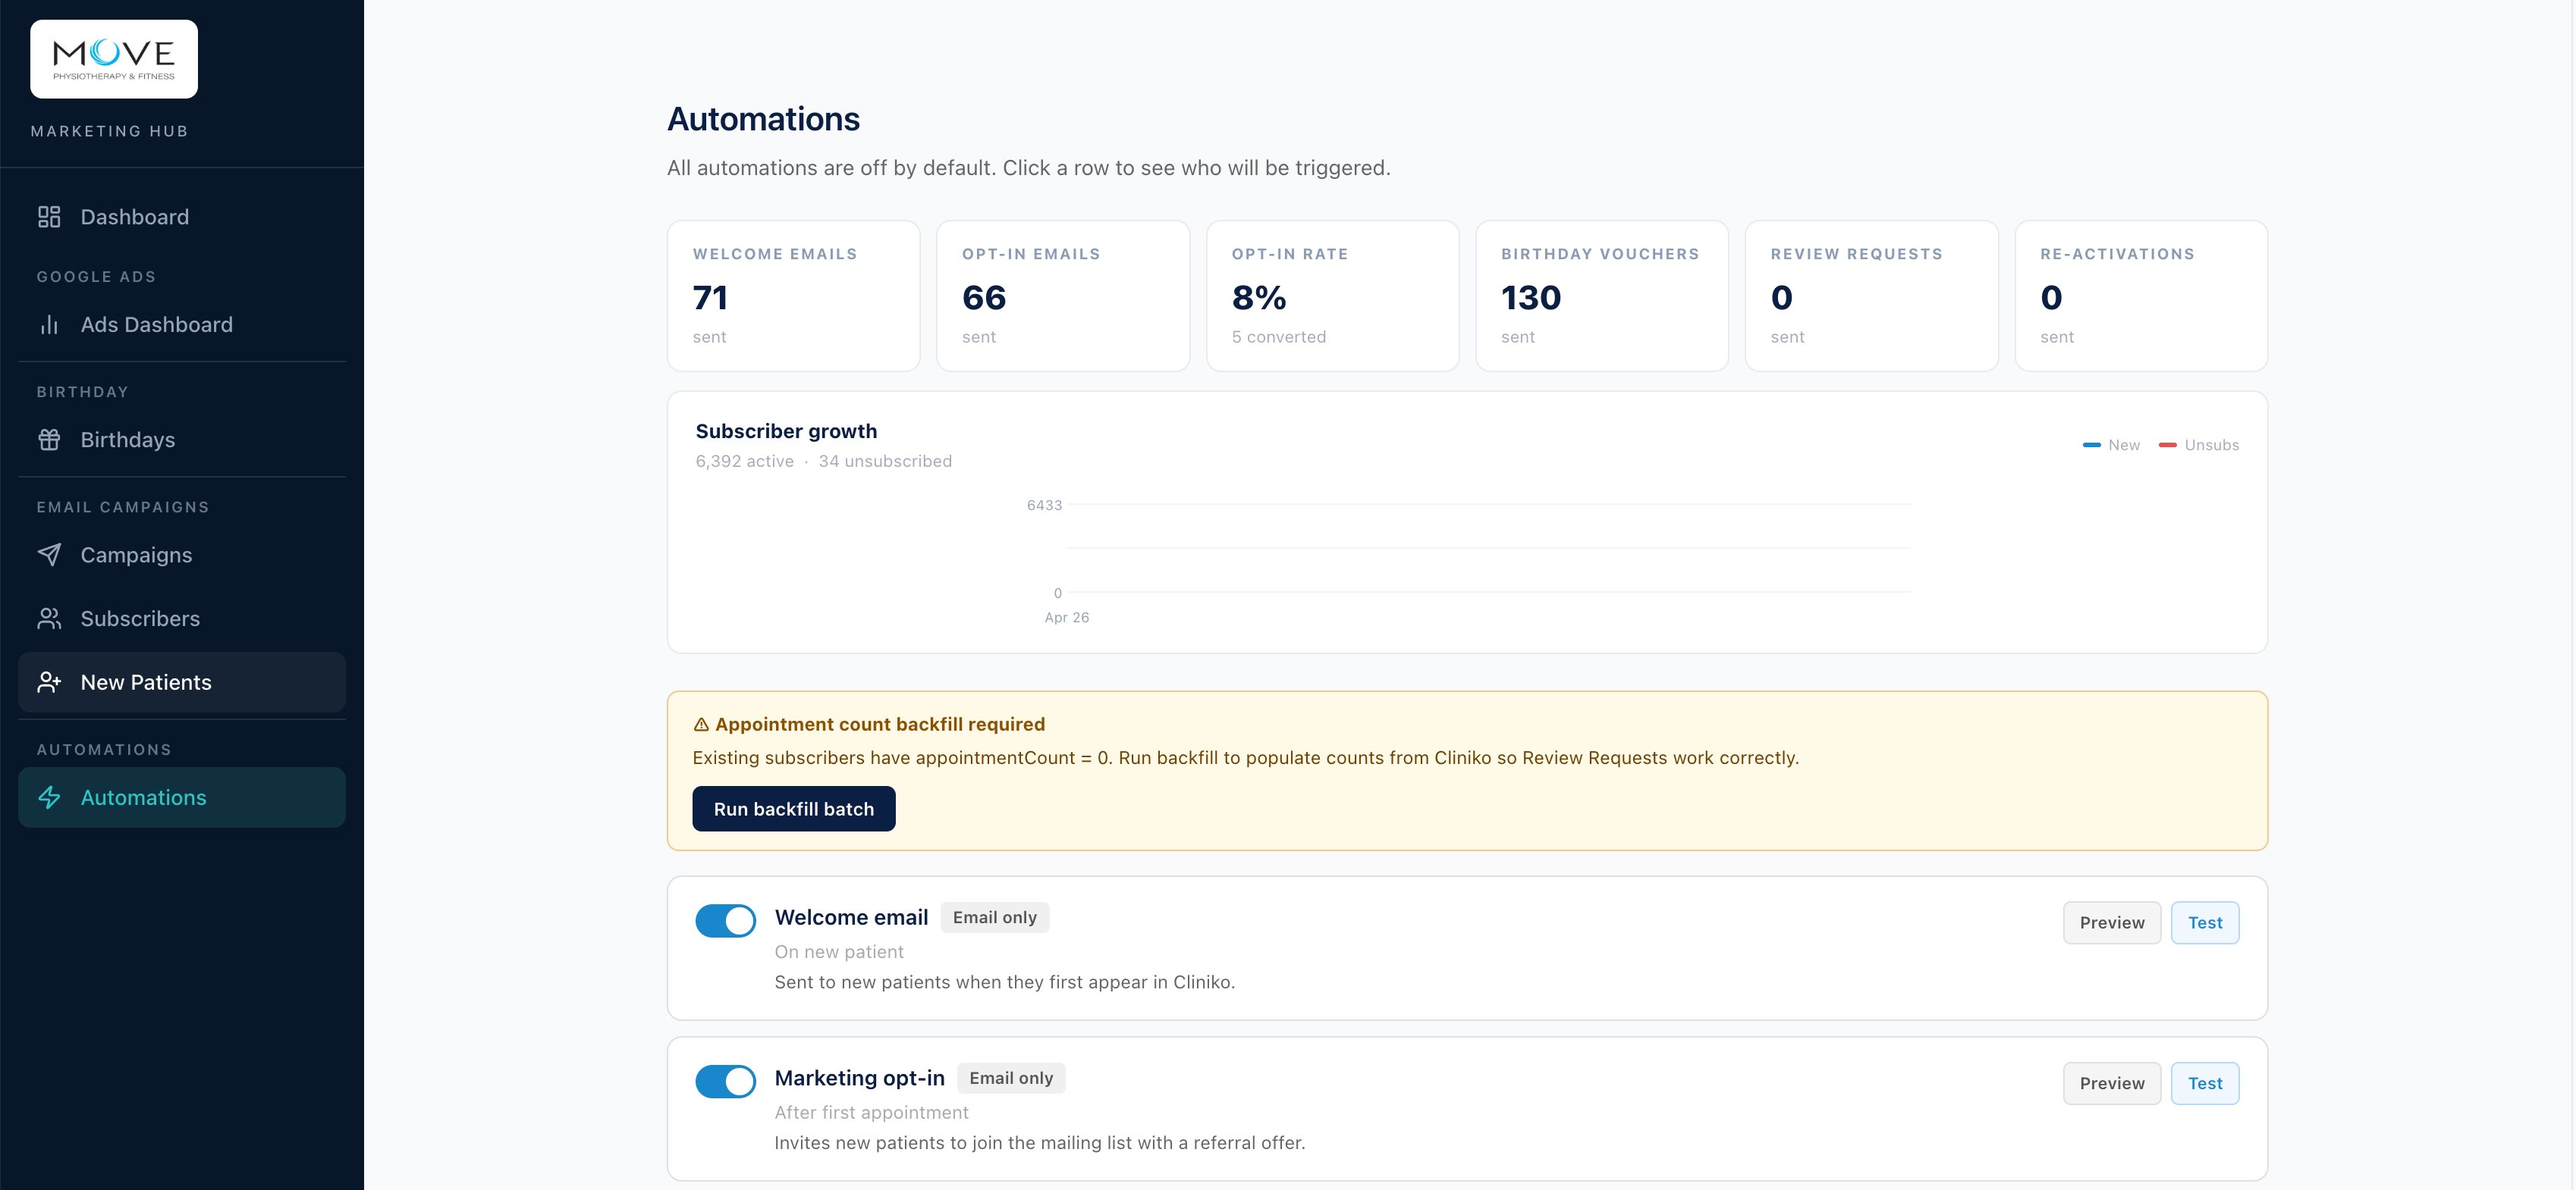
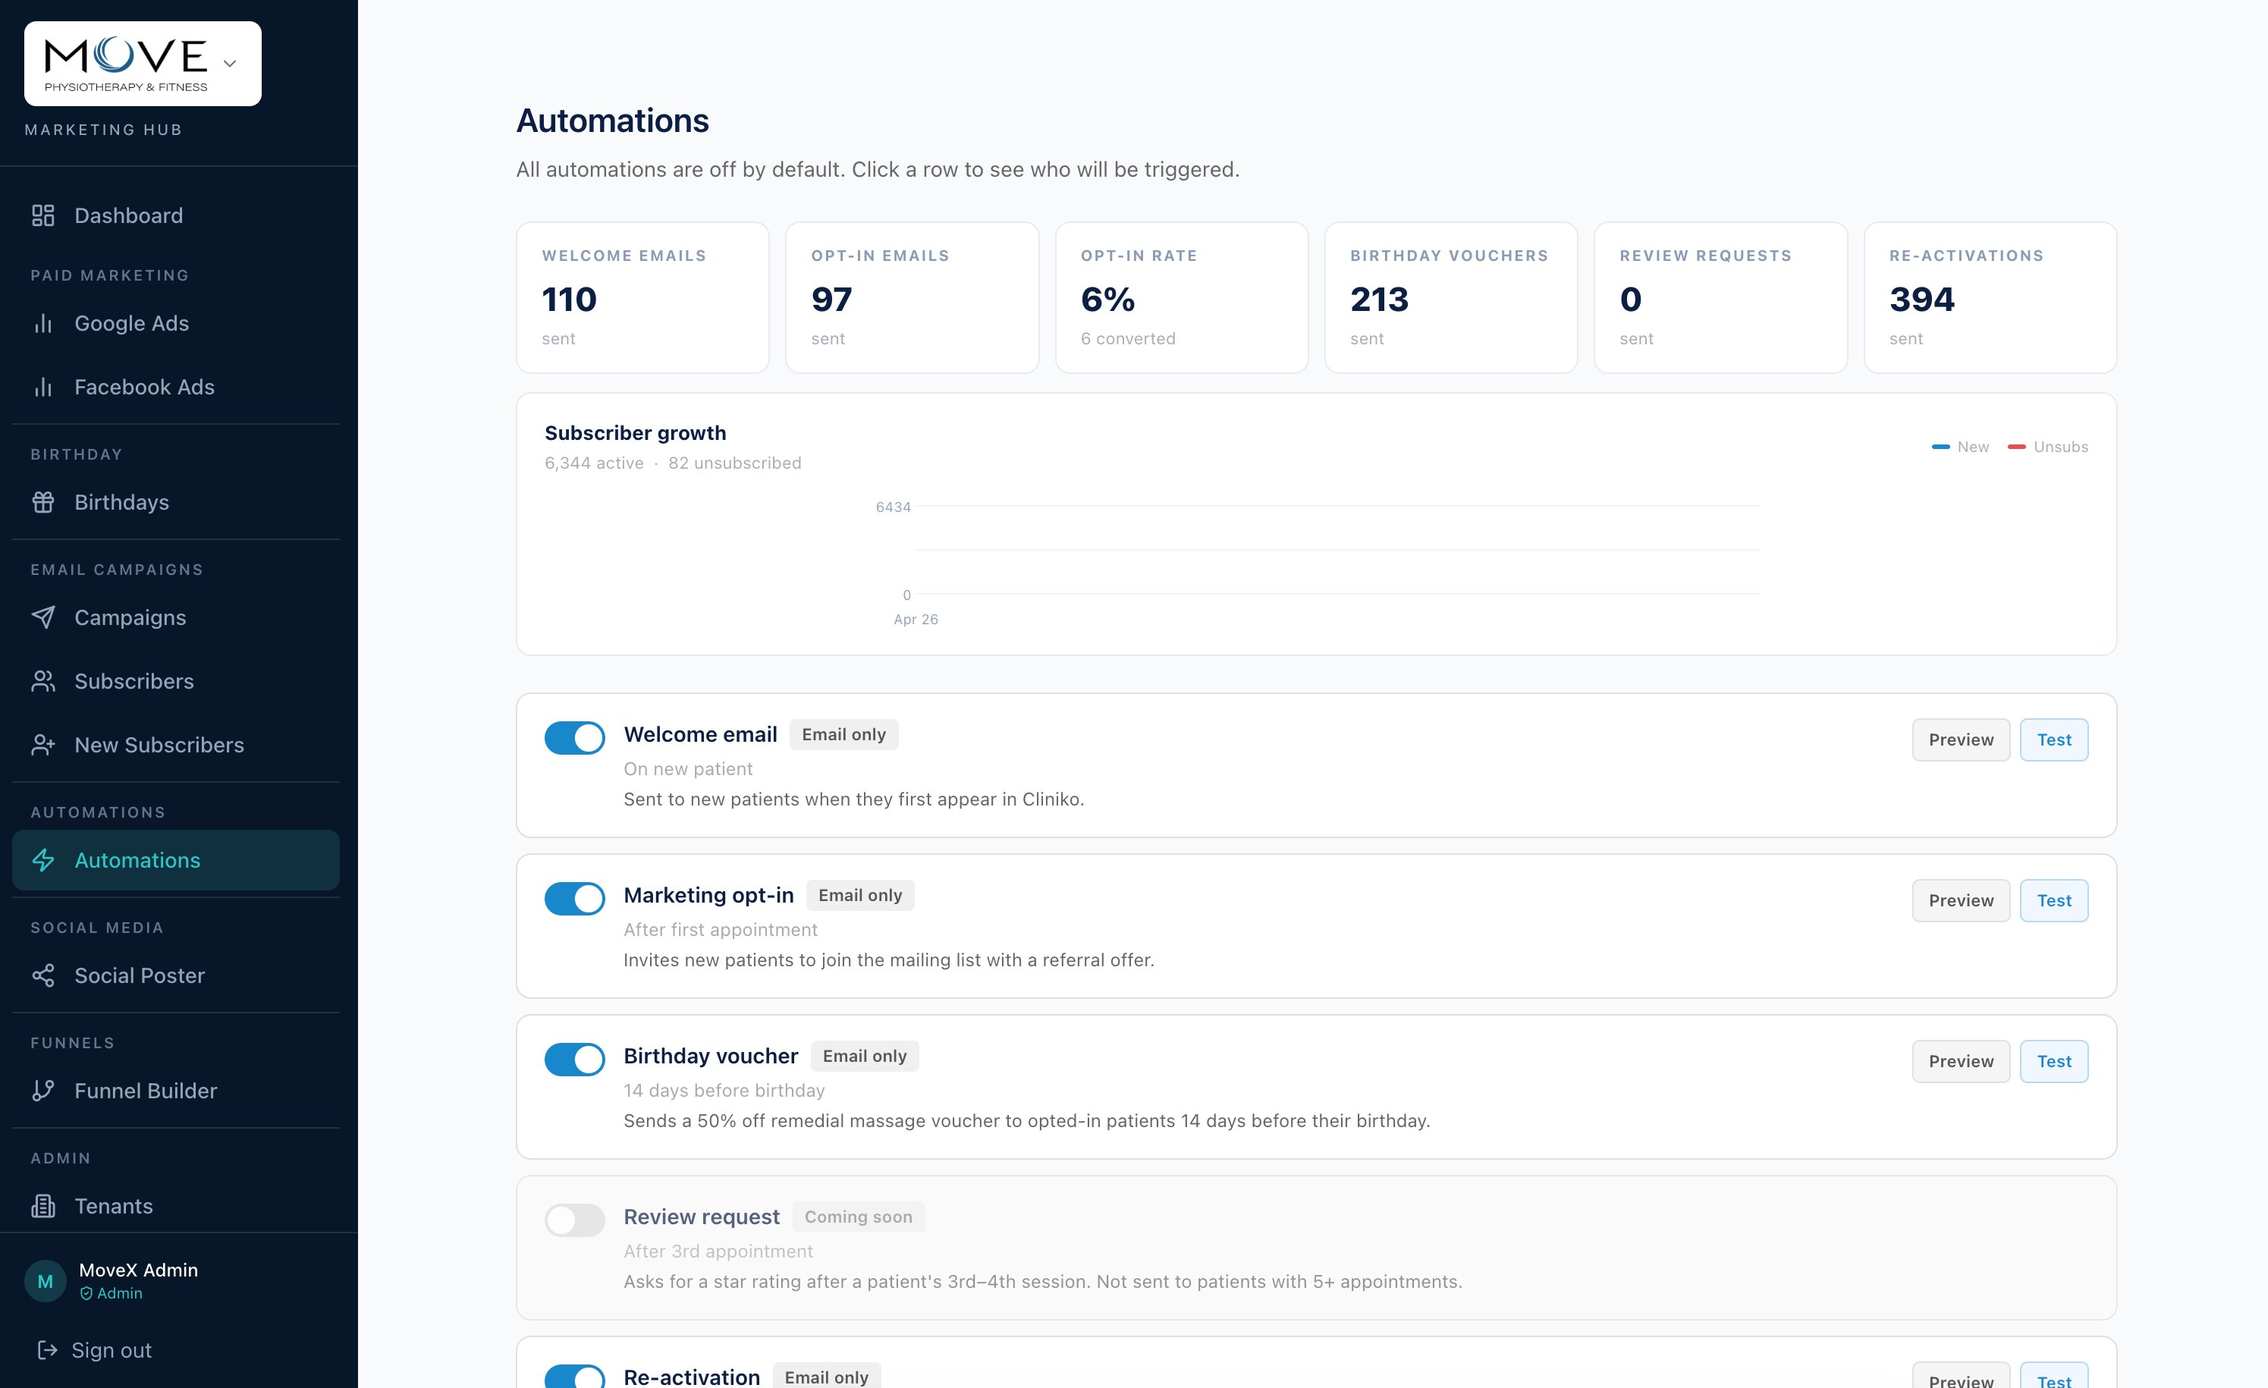
Website offer: update Marketing Hub screenshot to automations view, real stats

diff --git a/pages/website-offer.js b/pages/website-offer.js
@@ -318,8 +318,8 @@ export default function WebsitePromo() {
             <div style={{ position: 'relative' }}>
               <div style={{ borderRadius: '16px', overflow: 'hidden', border: '1px solid rgba(91,196,245,0.25)', boxShadow: '0 24px 80px rgba(0,0,0,0.5), 0 0 60px rgba(91,196,245,0.06)' }}>
                 <Image
-                  src="/hub-screenshot-1.png"
-                  alt="MoveX Marketing Hub dashboard"
+                  src="/hub-screenshot-2.png"
+                  alt="MoveX Marketing Hub — Automations"
                   width={900}
                   height={600}
                   style={{ width: '100%', height: 'auto', display: 'block' }}
@@ -327,8 +327,8 @@ export default function WebsitePromo() {
               </div>
               {/* Floating stat */}
               <div style={{ position: 'absolute', bottom: '-18px', right: '-18px', background: 'linear-gradient(135deg, #5bc4f5, #2a9fd8)', borderRadius: '12px', padding: '0.85rem 1.2rem', boxShadow: '0 8px 24px rgba(91,196,245,0.4)', textAlign: 'center' }}>
-                <div style={{ fontWeight: 900, fontSize: '1.4rem', color: '#040c18', lineHeight: 1 }}>6,450</div>
-                <div style={{ fontSize: '0.6rem', fontWeight: 700, color: '#040c18', letterSpacing: '0.06em', marginTop: '2px' }}>ACTIVE SUBSCRIBERS</div>
+                <div style={{ fontWeight: 900, fontSize: '1.4rem', color: '#040c18', lineHeight: 1 }}>394</div>
+                <div style={{ fontSize: '0.6rem', fontWeight: 700, color: '#040c18', letterSpacing: '0.06em', marginTop: '2px' }}>RE-ACTIVATIONS SENT</div>
               </div>
             </div>
 
